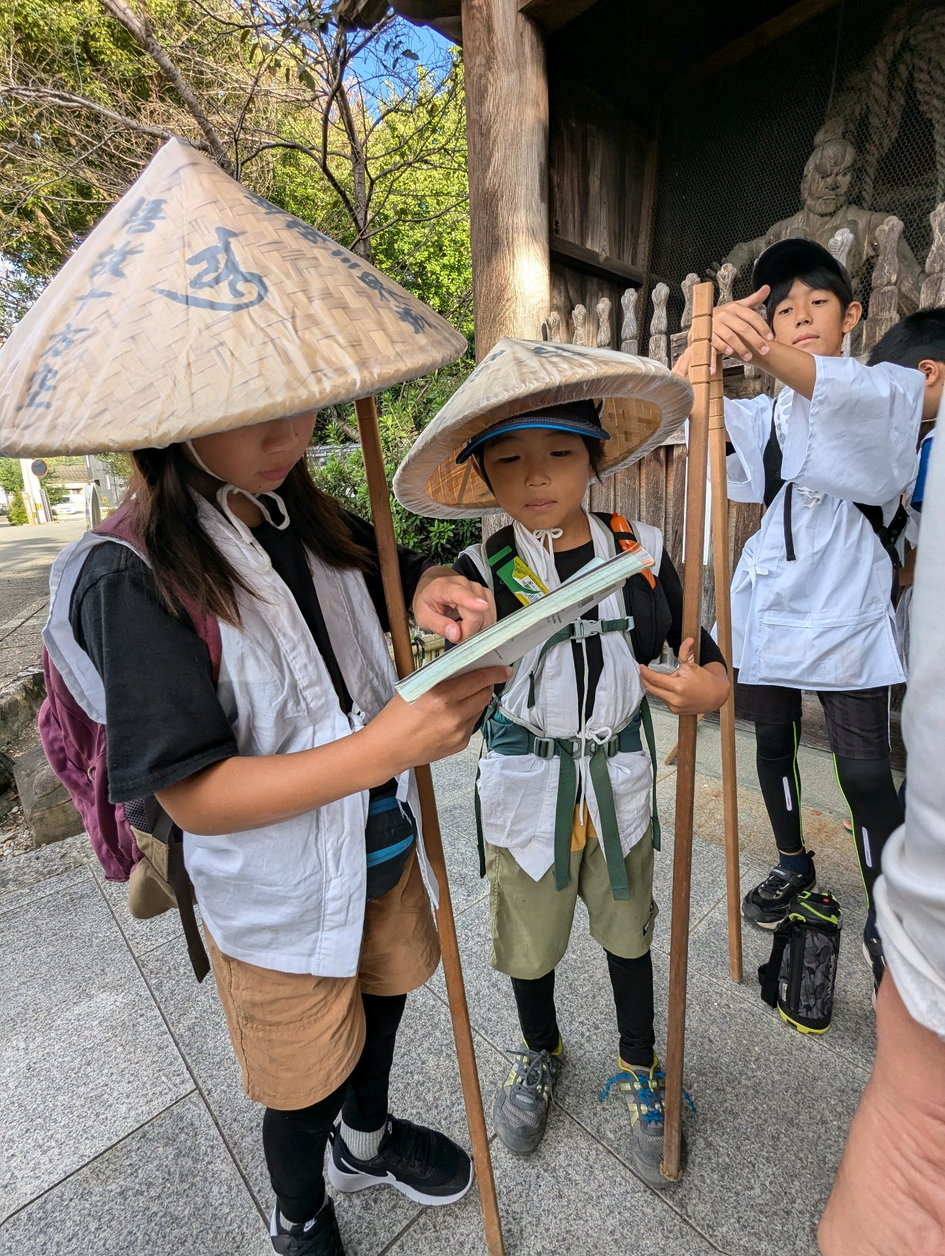
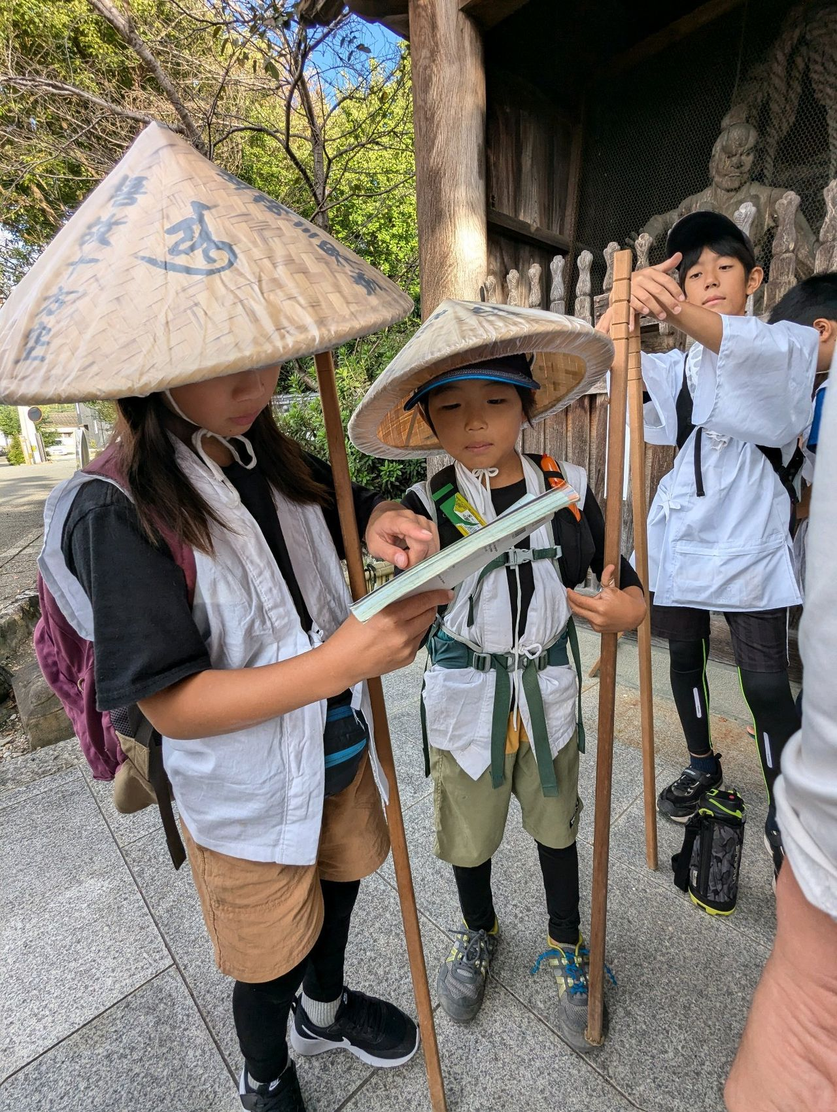
軽量化(画像圧縮・PNG→JPG)＋10日間修正＋トップ帯をEFJ&らんぼう塾訴求に強化＋メルマガCTA改善

Changed region(s): [[0.4062, 0.0624, 0.5, 0.2494]]

diff --git a/client/src/components/SubstackCTA.tsx b/client/src/components/SubstackCTA.tsx
@@ -1,41 +1,41 @@
 /**
  * SubstackCTA — メルマガ登録導線（軍配 KPI宣言: Substack登録者数）
- * Journeyの募集開始・先行案内をメルマガへ繋ぐバンド
+ * 写真＋ベネフィット箇条書きで登録動機を強化
  */
 export default function SubstackCTA() {
   return (
     <section className="py-16 md:py-24" style={{ background: "#1d5c4d" }}>
-      <div className="container max-w-3xl text-center">
-        <p className="text-xs font-bold tracking-[0.3em] text-white/60 mb-3">NEWSLETTER</p>
-        <h2 className="text-2xl md:text-3xl font-bold text-white mb-4">
-          旅は、メルマガからはじまる。
-        </h2>
-        <p className="text-sm md:text-base text-white/85 leading-relaxed mb-8">
-          Journeyの募集開始・先行割引・旅の裏側レポートをいち早くお届けします。
-          <br className="hidden md:block" />
-          登録無料・いつでも解除できます。
-        </p>
-        <div className="bg-white rounded-2xl px-4 py-5 md:px-6 shadow-xl w-full max-w-[480px] mx-auto">
-          <iframe
-            src="https://ranbou.substack.com/embed?no_posts=true"
-            width="100%"
-            height="130"
-            style={{ border: "none", background: "white" }}
-            frameBorder="0"
-            scrolling="no"
-            title="Substackメルマガ登録"
+      <div className="container max-w-4xl">
+        <div className="flex flex-col md:flex-row items-center gap-8 md:gap-10">
+          <img
+            src="/manus-storage/kids_kasa_f5b7d7f3.jpg"
+            alt="旅のようす"
+            loading="lazy"
+            className="w-40 h-40 md:w-52 md:h-52 object-cover rounded-2xl shadow-xl flex-shrink-0"
+            style={{ transform: "rotate(-2deg)" }}
           />
+          <div className="text-center md:text-left">
+            <p className="text-xs font-bold tracking-[0.3em] text-white/60 mb-2">NEWSLETTER</p>
+            <h2 className="text-2xl md:text-3xl font-bold text-white mb-4">旅は、メルマガからはじまる。</h2>
+            <ul className="text-sm md:text-base text-white/90 leading-loose mb-3 inline-block text-left">
+              <li>✓ 新しいJourneyの先行案内</li>
+              <li>✓ 早割・限定募集のお知らせ</li>
+              <li>✓ 旅の裏側レポート</li>
+            </ul>
+            <p className="text-xs text-white/60 mb-6">月1〜2回・登録無料・いつでも解除できます</p>
+            <div className="bg-white rounded-2xl px-4 py-4 shadow-xl w-full max-w-[440px] mx-auto md:mx-0">
+              <iframe
+                src="https://ranbou.substack.com/embed?no_posts=true"
+                width="100%"
+                height="110"
+                style={{ border: "none", background: "white" }}
+                frameBorder="0"
+                scrolling="no"
+                title="Substackメルマガ登録"
+              />
+            </div>
+          </div>
         </div>
-        <p className="mt-5">
-          <a
-            href="https://ranbou.substack.com/"
-            target="_blank"
-            rel="noopener noreferrer"
-            className="text-white/70 text-xs underline underline-offset-4 hover:text-white transition-colors"
-          >
-            Substackでこれまでの記事を読む →
-          </a>
-        </p>
       </div>
     </section>
   );

diff --git a/client/src/pages/Home.tsx b/client/src/pages/Home.tsx
@@ -10,10 +10,10 @@ import { Section, SectionHeader } from "@/components/ui/section";
 
 // ─── Image URLs (uploaded to webdev storage) ───────────────────────────────
 // チラシのメインビジュアル（山岳トレッキング写真）
-const FLYER_IMAGE = "/manus-storage/1000006557_f808d89c.png";
+const FLYER_IMAGE = "/manus-storage/1000006557_f808d89c.jpg";
 const GROUP_PHOTO = "/manus-storage/group_photo_road_24eb956b.jpg";
 const TOKUSHIMA_SHIMBUN = "/manus-storage/tokushima_shimbun_e14fdcec.jpg";
-const BG_TEXTURE = "/manus-storage/bg_texture_paper_6f447ab3.png";
+const BG_TEXTURE = "/manus-storage/bg_texture_paper_6f447ab3.jpg";
 
 // Journey images
 const SHIMA_JOURNEY = "/manus-storage/note_shima_journey_351f0c2e.jpg";
@@ -45,7 +45,7 @@ const journeys = [
     alt: "地球家族ジャーニー",
     tags: [
       { label: "募集中", color: "bg-primary" },
-      { label: "9日間", color: "bg-emerald-700" },
+      { label: "10日間", color: "bg-emerald-700" },
       { label: "家族向け", color: "bg-sky-700" },
       { label: "途中参加OK", color: "bg-amber-600" },
     ],
@@ -253,11 +253,27 @@ export default function Home() {
 
 
       {/* ── 募集バナー ── */}
-      <a href="https://tsu7tzkcozwmm.kimi.page/" target="_blank" rel="noopener">
-        <div className="block w-full text-center text-white cursor-pointer" style={{background: "linear-gradient(90deg,#1d5c4d,#2e8b6e)", padding: "10px 16px", marginTop: "72px", fontSize: "13.5px", fontWeight: 700, letterSpacing: ".04em", lineHeight: 1.6}}>
-          【募集中】地球家族ジャーニー 8/5(水)-14(金) 祝島→神山 ・ 少人数10名ほど ・ <span style={{textDecoration: "underline", textUnderlineOffset: "3px"}}>詳しくはこちら →</span>
-        </div>
-      </a>
+      {(() => {
+        const dep = new Date("2026-08-05T00:00:00+09:00").getTime();
+        const end = new Date("2026-08-15T00:00:00+09:00").getTime();
+        const now = Date.now();
+        const days = Math.ceil((dep - now) / 86400000);
+        const efjLive = now < end;
+        return (
+          <div className="w-full text-white" style={{background: "linear-gradient(90deg,#1d5c4d,#2e8b6e)", padding: "10px 16px", marginTop: "72px", fontSize: "13.5px", fontWeight: 700, letterSpacing: ".04em", lineHeight: 1.7, display: "flex", flexWrap: "wrap", justifyContent: "center", gap: "4px 20px", textAlign: "center"}}>
+            {efjLive && (
+              <a href="https://tsu7tzkcozwmm.kimi.page/" target="_blank" rel="noopener" style={{color: "#fff"}}>
+                🌍 {days > 0 ? `出発まであと${days}日！` : "ただいま旅の途中！"}地球家族ジャーニー 8/5-14 祝島→神山（少人数制）
+                <span style={{textDecoration: "underline", textUnderlineOffset: "3px", marginLeft: 6}}>詳細・申込 →</span>
+              </a>
+            )}
+            <a href="https://line.me/ti/p/HjhUktmN-m" target="_blank" rel="noopener" style={{color: "#fff"}}>
+              🎓 らんぼう塾（111日オンライン）受付中
+              <span style={{textDecoration: "underline", textUnderlineOffset: "3px", marginLeft: 6}}>LINEで相談 →</span>
+            </a>
+          </div>
+        );
+      })()}
 
       {/* ── Hero — チラシデザインをベースに ── */}
       <div

diff --git a/client/src/pages/Award.tsx b/client/src/pages/Award.tsx
@@ -44,7 +44,7 @@ export default function AwardPage() {
             {/* Award image */}
             <div className="w-full">
               <img
-                src="/manus-storage/award_2023_687524ae.png"
+                src="/manus-storage/award_2023_687524ae.jpg"
                 alt="2023年 推奨モデル特別賞受賞"
                 className="w-full h-auto object-contain"
               />

diff --git a/client/src/pages/Henro.tsx b/client/src/pages/Henro.tsx
@@ -152,7 +152,7 @@ export default function Henro() {
           </div>
           <div className="henro-stage-img reveal">
             <img
-              src="/manus-storage/img1_ashizuri_b29ac393.png"
+              src="/manus-storage/img1_ashizuri_b29ac393.jpg"
               alt="足摺岬近くの遍路道を歩く子どもたち"
               loading="lazy"
             />
